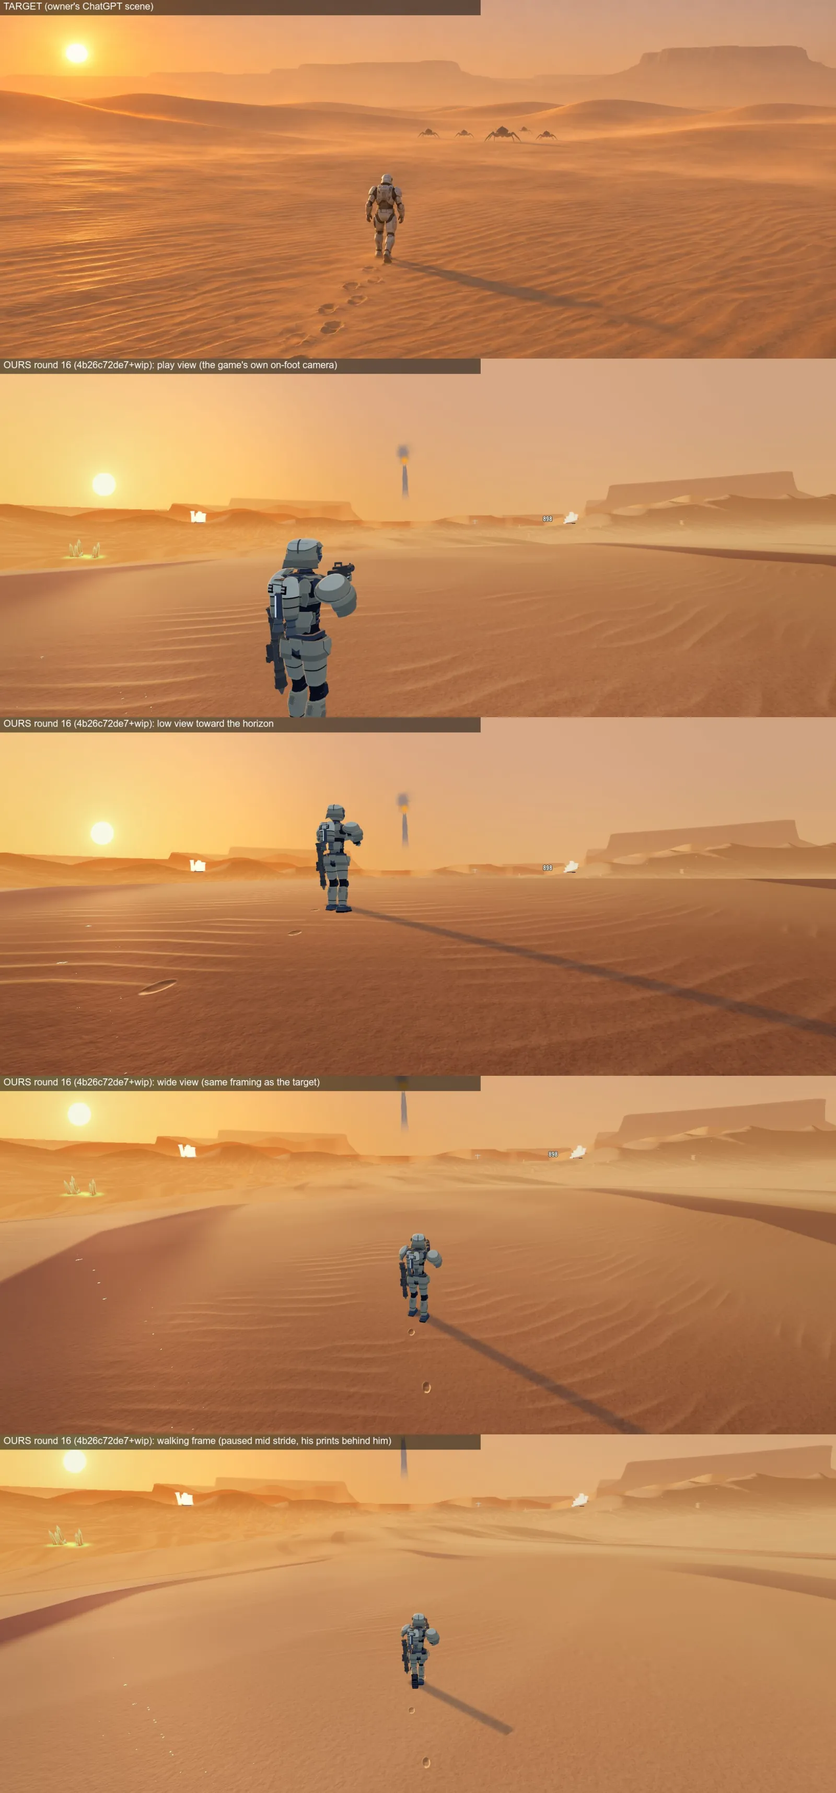
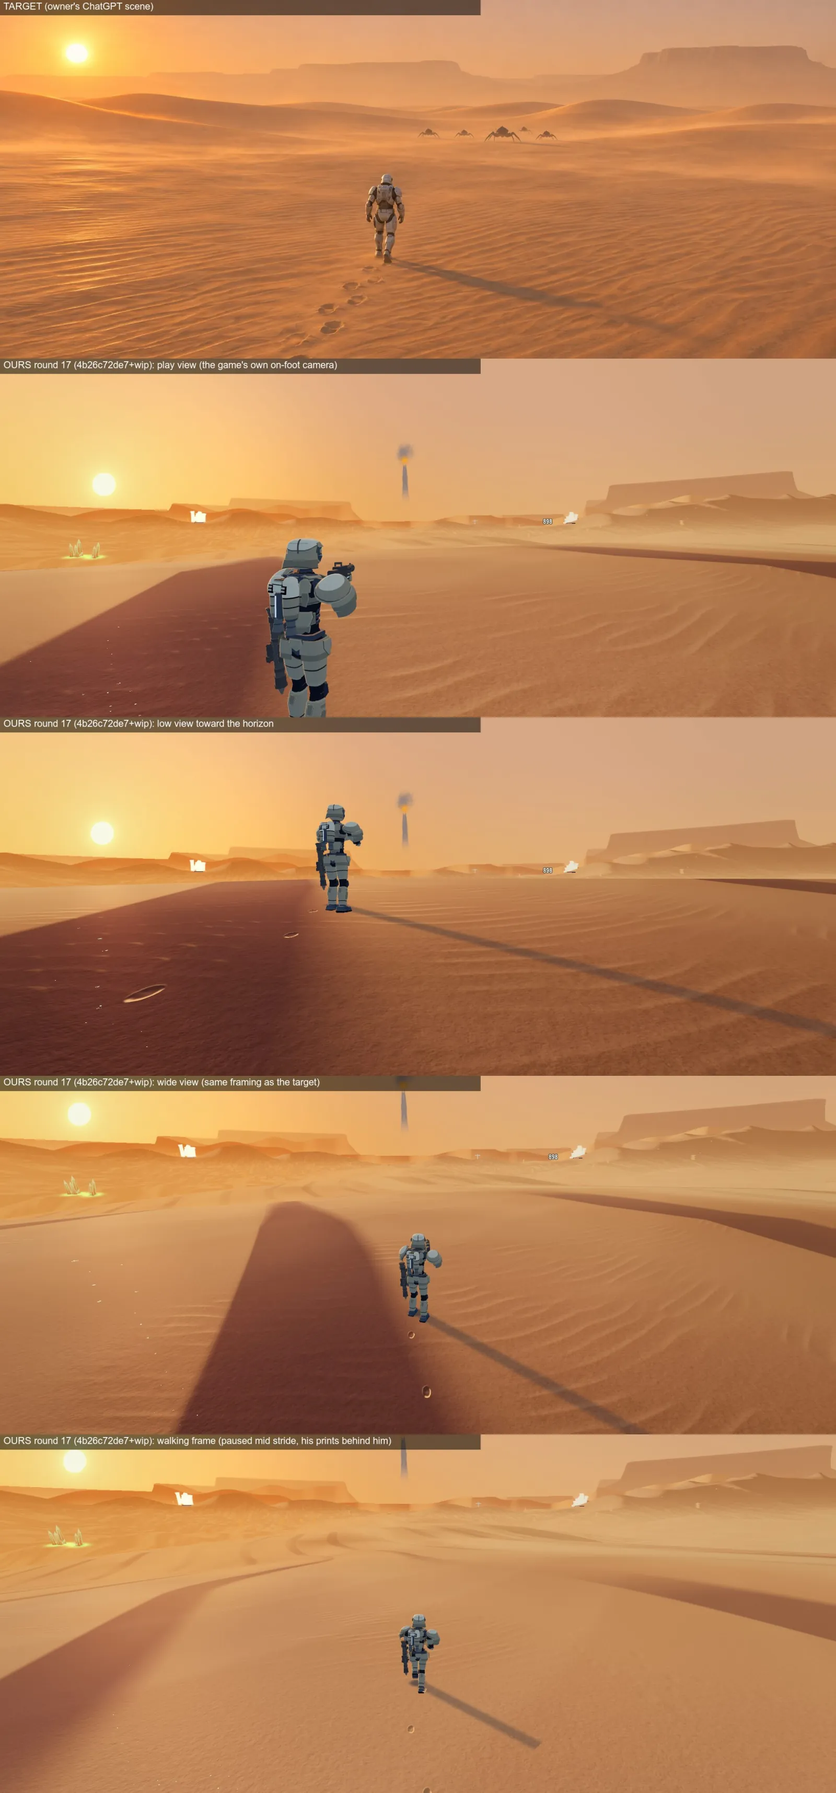
review page v193: Steel Tide: to review

diff --git a/d/steel-tide-clips-bb00109a/index.html b/d/steel-tide-clips-bb00109a/index.html
@@ -4,8 +4,8 @@
 <style>body{margin:0;background:#0d1117;color:#e6edf3;font:16px/1.5 -apple-system,system-ui,sans-serif}main{max-width:900px;margin:0 auto;padding:16px}h1{font-size:20px;margin:8px 0 4px}h2{font-size:17px;margin:34px 0 6px}p{margin:4px 0 10px;color:#9da7b3;font-size:14px}video,img{width:100%;height:auto;background:#000;border-radius:6px;display:block;margin-top:6px}a.b{display:inline-block;margin:8px 8px 0 0;padding:10px 14px;border:1px solid #3d444d;border-radius:6px;color:#e6edf3;text-decoration:none;font-size:14px}.t{font-size:12px;font-weight:400;color:#0d1117;background:#9da7b3;border-radius:10px;padding:2px 8px;margin-left:6px;vertical-align:middle}p.d{color:#7cb7ff;font-size:13px;margin:0 0 6px}nav small{color:#9da7b3;margin-left:6px}p b{color:#e6edf3}nav a{display:block;padding:7px 0;color:#7cb7ff;text-decoration:none;font-size:14px;border-bottom:1px solid #21262d}a.z{display:block;cursor:zoom-in}p.h{font-size:12px;margin:2px 0 8px}#lb{position:fixed;inset:0;background:#000;z-index:9;overflow:auto;display:none;cursor:zoom-in}#lb.on{display:block}#lb img{width:100%;height:100%;object-fit:contain;margin:0;border-radius:0;background:#000}#lb.big{cursor:zoom-out}#lb.big img{width:auto;height:auto;max-width:none;object-fit:none}#lbx{position:fixed;top:10px;right:14px;z-index:10;display:none;font:600 15px system-ui;color:#fff;background:#21262d;border:1px solid #3d444d;border-radius:6px;padding:8px 12px;cursor:pointer}#lb.on+#lbx{display:block}</style></head>
 <body><main>
 <h1>Steel Tide: to review</h1>
-<p>Version 192, 11-21 11:14 AM. 11-21 morning: everything rendered overnight that you had not seen: live sand, the sand work in progress, Petrel rounds 2 and 3, the hand cannons. Newest first. Total 84.3 MB.</p>
-<nav><a href="#petrel-wing-engine-redesign">Petrel: tiltwing + airstair (not in the game yet) <small>11-21 2:30 PM</small></a><a href="#desert-sand-r13-wip">Desert sand round 16 (not in the game yet) <small>11-21 11:14 AM</small></a><a href="#elevator-pilot-light">Station lift: the pilot goes dark with the ship (not in the game yet) <small>11-21 11:06 AM</small></a><a href="#petrel-airstair">Petrel: folding airstairs (not in the game yet) <small>11-21 10:44 AM</small></a><a href="#pilot-walk-sway">Pilot walk: half the side-to-side sway (before / after) <small>11-21 10:32 AM</small></a><a href="#unit-ground-shadows">Unit ground shadows back on (not live yet) <small>11-21 10:22 AM</small></a><a href="#extract-control-early">Extraction ending: control comes back as the hatch opens (not live yet) <small>11-21 10:10 AM</small></a><a href="#mech-hand-cannons">Mech hand cannons: OLD pull look (rejected), being replaced with the Singularity look <small>11-21 10:03 AM</small></a><a href="#desert-sand-live">Desert sand as it is live now (round 12), next to your target <small>11-21 9:53 AM</small></a><a href="#extraction-ending-elevator-up">Full extraction ending with the newest Petrel (live now) <small>11-21 9:50 AM</small></a><a href="#desert-sand-r11">Desert sand round 11: wavy ripple rows <small>11-21 9:37 AM</small></a><a href="#petrel-round3">Petrel ship: round 3, before and after (27 views) <small>11-21 9:37 AM</small></a><a href="#petrel-round2">Petrel ship: round 2, before and after <small>11-21 9:37 AM</small></a><a href="#leviathan-grabs-your-clone">Leviathan: a perfect dodge of the grab makes it bite your clone, then it is stunned <small>11-21 8:00 AM</small></a><a href="#pilot-base-hands">Pilot hands: same relaxed pose on both sides, new fingers <small>11-21 8:00 AM</small></a><a href="#pilot-tripo-attempt">Tripo pilot: new hands made by Tripo, attached to the same body <small>11-21 8:00 AM</small></a><a href="#pod-landing-m301">Drop pod landing (round 6, recorder fixed) <small>11-21 8:00 AM</small></a><a href="#hangar-pod-cradle">Hangar pod cradle: five locks, legs side by side, hatch closes as he lowers <small>11-21 8:00 AM</small></a><a href="#rocket-sentry-seated">Rocket sentry: the pilot sits in it, hands on the handle <small>11-21 8:00 AM</small></a><a href="#pod-landing-black-lines-removed">Pod landing: the huge black lines are removed <small>11-21 4:09 AM</small></a><a href="#dawn-time-of-day-preview">Dawn, a second time of day: for your yes or no (not in the game) <small>11-21 3:33 AM</small></a><a href="#hand-cannons-aoe-pull-blast">Heavy hand cannons: one hand pulls the pack in, the other fires two big slow blasts <small>11-21 3:20 AM</small></a><a href="#leviathan-reposition-no-slide">Leviathan: the body no longer slides when it turns <small>11-21 3:16 AM</small></a><a href="#hand-cannon-slice">Hand cannon combo, the proof slice (heavy blast, 1 second pull, F dive slam) <small>11-21 1:09 AM</small></a><a href="#weapon-icons-round-3">Weapon icons round 3: stylized from the real weapons, two directions <small>11-20 10:55 PM</small></a><a href="#desert-sand-direction">Desert sand: today against real sand (pick a direction) <small>11-20 10:51 PM</small></a><a href="#boss-shading-which-part">Your 8:00 PM report: which part of the boss looked wrong? <small>11-20 10:51 PM</small></a><a href="#pilot-ground-dash">Ground dash round 3: looser body, rifle holds its aim (clip, 8 directions) <small>11-20 10:41 PM</small></a><a href="#weapon-icons-pick">Weapon icons round 2: traced from the real gun models <small>11-20 5:36 PM</small></a><a href="#launch-sequence-live">Loading flight: side planets removed <small>11-20 5:26 PM</small></a><a href="#hangar-decompress">Hangar arrival: the mist clears right after you enter <small>11-20 5:01 PM</small></a><a href="#hangar-idle">Pilot idle in the hangar (round 2, looping) <small>11-20 5:01 PM</small></a><a href="#pilot-walk-run-m301">Pilot walk and run (export round 2) <small>11-20 5:01 PM</small></a><a href="#hangar-walk-run">Pilot walk and run in the hangar <small>11-20 5:01 PM</small></a><a href="#pod-boarding-no-clip">Hangar pod lowered, flat walk-in <small>11-20 5:01 PM</small></a><a href="#gravity-well-real-shots">Gravity well keeps each enemy shot&#x27;s own look <small>11-20 1:19 AM</small></a><a href="#pod-hatch-seals-first">Drop pod lowers only after the hatch is shut <small>11-20 1:19 AM</small></a><a href="#pilot-no-camera-lean">The pilot no longer leans when you tilt the camera <small>11-20 12:59 AM</small></a><a href="#ocean-ships-fewer">Ocean: 60 % fewer ships, wider spacing, hulks no longer overlap boats <small>11-20 12:59 AM</small></a><a href="#hangar-stairs-windows-vapor">Hangar: walkable stairs, space-only windows, leaking vapor <small>11-20 12:59 AM</small></a><a href="#drop-pod-no-hud">No HUD during the drop pod descent <small>11-20 12:59 AM</small></a><a href="#coop-join-as-pilot">Co-op: friends join as pilots beside you in the hangar <small>11-20 12:59 AM</small></a><a href="#new-mech-3d-r2">New mech: first 3D model from your sheet <small>11-19 11:21 PM</small></a><a href="#tactician-r2-s302-clean">Tactician pilot: your pick, smudges cleaned (ready to wire) <small>11-19 10:24 PM</small></a><a href="#vanguard-r2-s302">Vanguard pilot: your pick, six fingers fixed (ready to wire) <small>11-19 10:24 PM</small></a><a href="#engineer-ingame-first">Engineer pilot in the game (rough, live) <small>11-19 10:13 PM</small></a><a href="#cradle-jets-flames">Mothership engines on the launch flight <small>11-19 9:25 PM</small></a><a href="#mission-control-star-map">Mission Control star map with detailed planets <small>11-19 9:11 PM</small></a><a href="#island-kites-air">Island: Kites climb to a jetting pilot (and snipers aim ahead of him) <small>11-19 8:44 PM</small></a><a href="#petrel-seat-hold">Petrel: chest hold and real seats <small>11-19 4:25 PM</small></a><a href="#island-scuttle">Island enemy: Scuttle <small>11-19 3:40 PM</small></a><a href="#island-thresh">Island enemy: Thresh <small>11-19 3:40 PM</small></a><a href="#island-maul">Island enemy: Maul <small>11-19 3:40 PM</small></a><a href="#island-kite">Island enemy: Kite <small>11-19 3:40 PM</small></a><a href="#island-haul">Island enemy: Haul <small>11-19 3:40 PM</small></a><a href="#island-coil">Island enemy: Coil <small>11-19 3:40 PM</small></a><a href="#island-bloom">Island enemy: Bloom <small>11-19 3:40 PM</small></a><a href="#island-lagoon-sniper">Island enemy: Lagoon Sniper <small>11-19 3:40 PM</small></a><a href="#island-lagoon-lobber">Island enemy: Lagoon Lobber <small>11-19 3:40 PM</small></a><a href="#island-heave">Island enemy: Heave <small>11-19 3:40 PM</small></a><a href="#island-roost">Island enemy: Roost (the Widow) <small>11-19 3:40 PM</small></a><a href="#island-noose">Island enemy: Noose <small>11-19 3:40 PM</small></a><a href="#island-brine">Island enemy: Brine <small>11-19 3:40 PM</small></a><a href="#island-rift">Island enemy: Rift <small>11-19 3:40 PM</small></a><a href="#island-quill">Island enemy: Quill <small>11-19 3:40 PM</small></a><a href="#island-drum">Island enemy: Drum <small>11-19 3:40 PM</small></a><a href="#island-tusk">Island enemy: Tusk <small>11-19 3:40 PM</small></a><a href="#hangar-jets-every-press">Hangar jets on every Space tap and Shift dash <small>11-19 3:30 PM</small></a><a href="#pistol-holster">Pistol stays in its holster until you aim <small>11-19 3:00 PM</small></a><a href="#loading-no-counts">Loading screen shows only the step and the bar <small>11-19 2:30 PM</small></a><a href="#hangar-globe-fix">Hangar globe turns on its own, with the target marks removed <small>11-19 1:50 PM</small></a><a href="#petrel-seat-facing">Petrel: the seated pilot faces the way his seat faces <small>11-19 1:20 PM</small></a><a href="#mission-control-planets">Mission Control: pick a planet first, then start <small>11-19 12:07 PM</small></a><a href="#hangar-station-screens">Hangar station screens <small>11-19 12:07 PM</small></a><a href="#pilot-drop-pod-boarding">Pilot climbs into the drop pod <small>11-19 10:40 AM</small></a><a href="#hangar-laser-tag">Hangar laser tag <small>11-19 1:22 AM</small></a><a href="#mission-control-prop">Mission Control: the holo globe table <small>11-19 1:05 AM</small></a><a href="#hangar-drop-pod-marker">Drop pod marker in the hangar <small>11-19 12:50 AM</small></a><a href="#hangar-real-in-game">The real hangar, walked in the game <small>11-18 9:30 PM</small></a><a href="#cradle-drop-launch-r4">NEEDS YOUR PICK: the drop cannon&#x27;s size on the Cradle (three sizes), with its back hidden and navy colour <small>11-18 7:43 PM</small></a><a href="#stage4-terrain-and-base">Stage 4, the new-planet loop: parts built, not playable yet <small>11-18 7:29 PM</small></a><a href="#ocean-titan-bar-below">NEEDS YOUR EYE: Ocean Titan now uses the Strider&#x27;s camera (low, behind, horizon in view) <small>11-18 6:46 PM</small></a><a href="#titan-hud-unify">One lock ring, one Titan armor bar, cooldown icons instead of status text (first pass) <small>11-18 6:41 PM</small></a><a href="#cradle-hull-r4">The Cradle mothership, round 4: cannon moved under the stern, darker landing pad <small>11-18 5:15 PM</small></a><a href="#island-fliers-low">Red fliers over the island: fewer, and they creep instead of parking <small>11-18 12:30 AM</small></a><a href="#horde-pilot-zoom">NEEDS YOUR CALL: island Horde, camera zooms in when you are on foot <small>11-17 1:30 PM</small></a></nav>
+<p>Version 193, 11-21 11:28 AM. 11-21 morning: everything rendered overnight that you had not seen: live sand, the sand work in progress, Petrel rounds 2 and 3, the hand cannons. Newest first. Total 84.9 MB.</p>
+<nav><a href="#petrel-wing-engine-redesign">Petrel: tiltwing + airstair (not in the game yet) <small>11-21 2:30 PM</small></a><a href="#desert-sand-r13-wip">Desert sand round 17 (not in the game yet) <small>11-21 11:28 AM</small></a><a href="#elevator-pilot-light">Station lift: the pilot goes dark with the ship (not in the game yet) <small>11-21 11:06 AM</small></a><a href="#petrel-airstair">Petrel: folding airstairs (not in the game yet) <small>11-21 10:44 AM</small></a><a href="#pilot-walk-sway">Pilot walk: half the side-to-side sway (before / after) <small>11-21 10:32 AM</small></a><a href="#unit-ground-shadows">Unit ground shadows back on (not live yet) <small>11-21 10:22 AM</small></a><a href="#extract-control-early">Extraction ending: control comes back as the hatch opens (not live yet) <small>11-21 10:10 AM</small></a><a href="#mech-hand-cannons">Mech hand cannons: OLD pull look (rejected), being replaced with the Singularity look <small>11-21 10:03 AM</small></a><a href="#desert-sand-live">Desert sand as it is live now (round 12), next to your target <small>11-21 9:53 AM</small></a><a href="#extraction-ending-elevator-up">Full extraction ending with the newest Petrel (live now) <small>11-21 9:50 AM</small></a><a href="#desert-sand-r11">Desert sand round 11: wavy ripple rows <small>11-21 9:37 AM</small></a><a href="#petrel-round3">Petrel ship: round 3, before and after (27 views) <small>11-21 9:37 AM</small></a><a href="#petrel-round2">Petrel ship: round 2, before and after <small>11-21 9:37 AM</small></a><a href="#leviathan-grabs-your-clone">Leviathan: a perfect dodge of the grab makes it bite your clone, then it is stunned <small>11-21 8:00 AM</small></a><a href="#pilot-base-hands">Pilot hands: same relaxed pose on both sides, new fingers <small>11-21 8:00 AM</small></a><a href="#pilot-tripo-attempt">Tripo pilot: new hands made by Tripo, attached to the same body <small>11-21 8:00 AM</small></a><a href="#pod-landing-m301">Drop pod landing (round 6, recorder fixed) <small>11-21 8:00 AM</small></a><a href="#hangar-pod-cradle">Hangar pod cradle: five locks, legs side by side, hatch closes as he lowers <small>11-21 8:00 AM</small></a><a href="#rocket-sentry-seated">Rocket sentry: the pilot sits in it, hands on the handle <small>11-21 8:00 AM</small></a><a href="#pod-landing-black-lines-removed">Pod landing: the huge black lines are removed <small>11-21 4:09 AM</small></a><a href="#dawn-time-of-day-preview">Dawn, a second time of day: for your yes or no (not in the game) <small>11-21 3:33 AM</small></a><a href="#hand-cannons-aoe-pull-blast">Heavy hand cannons: one hand pulls the pack in, the other fires two big slow blasts <small>11-21 3:20 AM</small></a><a href="#leviathan-reposition-no-slide">Leviathan: the body no longer slides when it turns <small>11-21 3:16 AM</small></a><a href="#hand-cannon-slice">Hand cannon combo, the proof slice (heavy blast, 1 second pull, F dive slam) <small>11-21 1:09 AM</small></a><a href="#weapon-icons-round-3">Weapon icons round 3: stylized from the real weapons, two directions <small>11-20 10:55 PM</small></a><a href="#desert-sand-direction">Desert sand: today against real sand (pick a direction) <small>11-20 10:51 PM</small></a><a href="#boss-shading-which-part">Your 8:00 PM report: which part of the boss looked wrong? <small>11-20 10:51 PM</small></a><a href="#pilot-ground-dash">Ground dash round 3: looser body, rifle holds its aim (clip, 8 directions) <small>11-20 10:41 PM</small></a><a href="#weapon-icons-pick">Weapon icons round 2: traced from the real gun models <small>11-20 5:36 PM</small></a><a href="#launch-sequence-live">Loading flight: side planets removed <small>11-20 5:26 PM</small></a><a href="#hangar-decompress">Hangar arrival: the mist clears right after you enter <small>11-20 5:01 PM</small></a><a href="#hangar-idle">Pilot idle in the hangar (round 2, looping) <small>11-20 5:01 PM</small></a><a href="#pilot-walk-run-m301">Pilot walk and run (export round 2) <small>11-20 5:01 PM</small></a><a href="#hangar-walk-run">Pilot walk and run in the hangar <small>11-20 5:01 PM</small></a><a href="#pod-boarding-no-clip">Hangar pod lowered, flat walk-in <small>11-20 5:01 PM</small></a><a href="#gravity-well-real-shots">Gravity well keeps each enemy shot&#x27;s own look <small>11-20 1:19 AM</small></a><a href="#pod-hatch-seals-first">Drop pod lowers only after the hatch is shut <small>11-20 1:19 AM</small></a><a href="#pilot-no-camera-lean">The pilot no longer leans when you tilt the camera <small>11-20 12:59 AM</small></a><a href="#ocean-ships-fewer">Ocean: 60 % fewer ships, wider spacing, hulks no longer overlap boats <small>11-20 12:59 AM</small></a><a href="#hangar-stairs-windows-vapor">Hangar: walkable stairs, space-only windows, leaking vapor <small>11-20 12:59 AM</small></a><a href="#drop-pod-no-hud">No HUD during the drop pod descent <small>11-20 12:59 AM</small></a><a href="#coop-join-as-pilot">Co-op: friends join as pilots beside you in the hangar <small>11-20 12:59 AM</small></a><a href="#new-mech-3d-r2">New mech: first 3D model from your sheet <small>11-19 11:21 PM</small></a><a href="#tactician-r2-s302-clean">Tactician pilot: your pick, smudges cleaned (ready to wire) <small>11-19 10:24 PM</small></a><a href="#vanguard-r2-s302">Vanguard pilot: your pick, six fingers fixed (ready to wire) <small>11-19 10:24 PM</small></a><a href="#engineer-ingame-first">Engineer pilot in the game (rough, live) <small>11-19 10:13 PM</small></a><a href="#cradle-jets-flames">Mothership engines on the launch flight <small>11-19 9:25 PM</small></a><a href="#mission-control-star-map">Mission Control star map with detailed planets <small>11-19 9:11 PM</small></a><a href="#island-kites-air">Island: Kites climb to a jetting pilot (and snipers aim ahead of him) <small>11-19 8:44 PM</small></a><a href="#petrel-seat-hold">Petrel: chest hold and real seats <small>11-19 4:25 PM</small></a><a href="#island-scuttle">Island enemy: Scuttle <small>11-19 3:40 PM</small></a><a href="#island-thresh">Island enemy: Thresh <small>11-19 3:40 PM</small></a><a href="#island-maul">Island enemy: Maul <small>11-19 3:40 PM</small></a><a href="#island-kite">Island enemy: Kite <small>11-19 3:40 PM</small></a><a href="#island-haul">Island enemy: Haul <small>11-19 3:40 PM</small></a><a href="#island-coil">Island enemy: Coil <small>11-19 3:40 PM</small></a><a href="#island-bloom">Island enemy: Bloom <small>11-19 3:40 PM</small></a><a href="#island-lagoon-sniper">Island enemy: Lagoon Sniper <small>11-19 3:40 PM</small></a><a href="#island-lagoon-lobber">Island enemy: Lagoon Lobber <small>11-19 3:40 PM</small></a><a href="#island-heave">Island enemy: Heave <small>11-19 3:40 PM</small></a><a href="#island-roost">Island enemy: Roost (the Widow) <small>11-19 3:40 PM</small></a><a href="#island-noose">Island enemy: Noose <small>11-19 3:40 PM</small></a><a href="#island-brine">Island enemy: Brine <small>11-19 3:40 PM</small></a><a href="#island-rift">Island enemy: Rift <small>11-19 3:40 PM</small></a><a href="#island-quill">Island enemy: Quill <small>11-19 3:40 PM</small></a><a href="#island-drum">Island enemy: Drum <small>11-19 3:40 PM</small></a><a href="#island-tusk">Island enemy: Tusk <small>11-19 3:40 PM</small></a><a href="#hangar-jets-every-press">Hangar jets on every Space tap and Shift dash <small>11-19 3:30 PM</small></a><a href="#pistol-holster">Pistol stays in its holster until you aim <small>11-19 3:00 PM</small></a><a href="#loading-no-counts">Loading screen shows only the step and the bar <small>11-19 2:30 PM</small></a><a href="#hangar-globe-fix">Hangar globe turns on its own, with the target marks removed <small>11-19 1:50 PM</small></a><a href="#petrel-seat-facing">Petrel: the seated pilot faces the way his seat faces <small>11-19 1:20 PM</small></a><a href="#mission-control-planets">Mission Control: pick a planet first, then start <small>11-19 12:07 PM</small></a><a href="#hangar-station-screens">Hangar station screens <small>11-19 12:07 PM</small></a><a href="#pilot-drop-pod-boarding">Pilot climbs into the drop pod <small>11-19 10:40 AM</small></a><a href="#hangar-laser-tag">Hangar laser tag <small>11-19 1:22 AM</small></a><a href="#mission-control-prop">Mission Control: the holo globe table <small>11-19 1:05 AM</small></a><a href="#hangar-drop-pod-marker">Drop pod marker in the hangar <small>11-19 12:50 AM</small></a><a href="#hangar-real-in-game">The real hangar, walked in the game <small>11-18 9:30 PM</small></a><a href="#cradle-drop-launch-r4">NEEDS YOUR PICK: the drop cannon&#x27;s size on the Cradle (three sizes), with its back hidden and navy colour <small>11-18 7:43 PM</small></a><a href="#stage4-terrain-and-base">Stage 4, the new-planet loop: parts built, not playable yet <small>11-18 7:29 PM</small></a><a href="#ocean-titan-bar-below">NEEDS YOUR EYE: Ocean Titan now uses the Strider&#x27;s camera (low, behind, horizon in view) <small>11-18 6:46 PM</small></a><a href="#titan-hud-unify">One lock ring, one Titan armor bar, cooldown icons instead of status text (first pass) <small>11-18 6:41 PM</small></a><a href="#cradle-hull-r4">The Cradle mothership, round 4: cannon moved under the stern, darker landing pad <small>11-18 5:15 PM</small></a><a href="#island-fliers-low">Red fliers over the island: fewer, and they creep instead of parking <small>11-18 12:30 AM</small></a><a href="#horde-pilot-zoom">NEEDS YOUR CALL: island Horde, camera zooms in when you are on foot <small>11-17 1:30 PM</small></a></nav>
 <section id="petrel-wing-engine-redesign"><h2>Petrel: tiltwing + airstair (not in the game yet) <span class="t">built, not live</span></h2>
 <p class="d">Updated 11-21 2:30 PM ET &middot; captured from lane build f3a298441a (tiltwing + airstair merged) vs Dock d7deeea3bf</p>
 <p><b>What changed:</b> Now in the real game cameras, with the new airstair merged in: wing and jet tilt as one unit, upright when landed and in the hangar, flat in flight; the stairs clear the jets at every tilt.</p>
@@ -15,11 +15,12 @@
 <video controls playsinline muted preload="none" poster="petrel-wing-engine-redesign-1.webp" data-fb="petrel-wing-engine-redesign"><source src="petrel-wing-engine-redesign.mp4" type="video/mp4"></video>
 <div class="fb" data-id="petrel-wing-engine-redesign" data-title="Petrel: tiltwing + airstair (not in the game yet)"><p class="h">Pause the video at any moment to write a note for that second.</p><div class="fbbox" hidden><b class="fbt"></b><textarea rows="3" placeholder="Your feedback at this moment"></textarea><button class="fbsave">Save and keep playing</button><button class="fbcancel">Cancel</button></div><ol class="fblist"></ol><button class="fbexp">Export feedback</button><div class="fbout" hidden><textarea rows="8" readonly></textarea><button class="fbcopy">Copy</button><span class="fbok"></span></div></div>
 <a class="b" href="petrel-wing-engine-redesign.mp4">Open the video on its own (1.7 MB)</a></section>
-<section id="desert-sand-r13-wip"><h2>Desert sand round 16 (not in the game yet) <span class="t">built, not live</span></h2>
-<p class="d">Updated 11-21 11:14 AM ET &middot; captured from lane build GROUND-SAND-R16-1121</p>
-<p><b>What changed:</b> More dunes close to you, now running away from you so the low sun lights one side and shades the other. Blowing dust starts closer to the ground, footprints are longer with a brighter far edge, and the sun glints on the grains are brighter.</p>
-<p><b>Where to look:</b> Wide and walking views: the lit and shaded dune sides near the pilot; the top picture is your target.</p>
-<a class="z" href="desert-sand-r13-wip-1-full.webp"><img loading="lazy" src="desert-sand-r13-wip-1.webp" alt="Desert sand round 16 (not in the game yet)"></a><p class="h">Click the image for full screen, click again for full size.</p></section>
+<section id="desert-sand-r13-wip"><h2>Desert sand round 17 (not in the game yet) <span class="t">built, not live</span></h2>
+<p class="d">Updated 11-21 11:28 AM ET &middot; captured from lane build GROUND-SAND-R16-1121</p>
+<p><b>What changed:</b> Dunes are closer together, so near the pilot you now see several lit and shaded dune sides instead of a flat plain. Blowing dust starts closer to the ground, footprints are longer with a brighter far edge, and the sun glints on the grains are brighter.</p>
+<p><b>Where to look:</b> Play, low and wide views: the shaded dune sides next to the pilot (still too dark and flat inside, next round softens them); the top picture is your target.</p>
+<a class="z" href="desert-sand-r13-wip-1-full.webp"><img loading="lazy" src="desert-sand-r13-wip-1.webp" alt="Desert sand round 17 (not in the game yet)"></a><p class="h">Click the image for full screen, click again for full size.</p>
+<a class="z" href="desert-sand-r13-wip-2-full.webp"><img loading="lazy" src="desert-sand-r13-wip-2.webp" alt="Desert sand round 17 (not in the game yet)"></a><p class="h">Click the image for full screen, click again for full size.</p></section>
 <section id="elevator-pilot-light"><h2>Station lift: the pilot goes dark with the ship (not in the game yet) <span class="t">built, not live</span></h2>
 <p class="d">Updated 11-21 11:06 AM ET &middot; captured from lane build ELEVATOR-PILOT-LIGHT-1121 on Dock (BEFORE = Dock, same shot, same camera)</p>
 <p><b>What changed:</b> In the lift shaft the pilot was fully lit alone in the black; he now takes the same shaft darkening as the ship and the room, for you and co-op pilots.</p>
